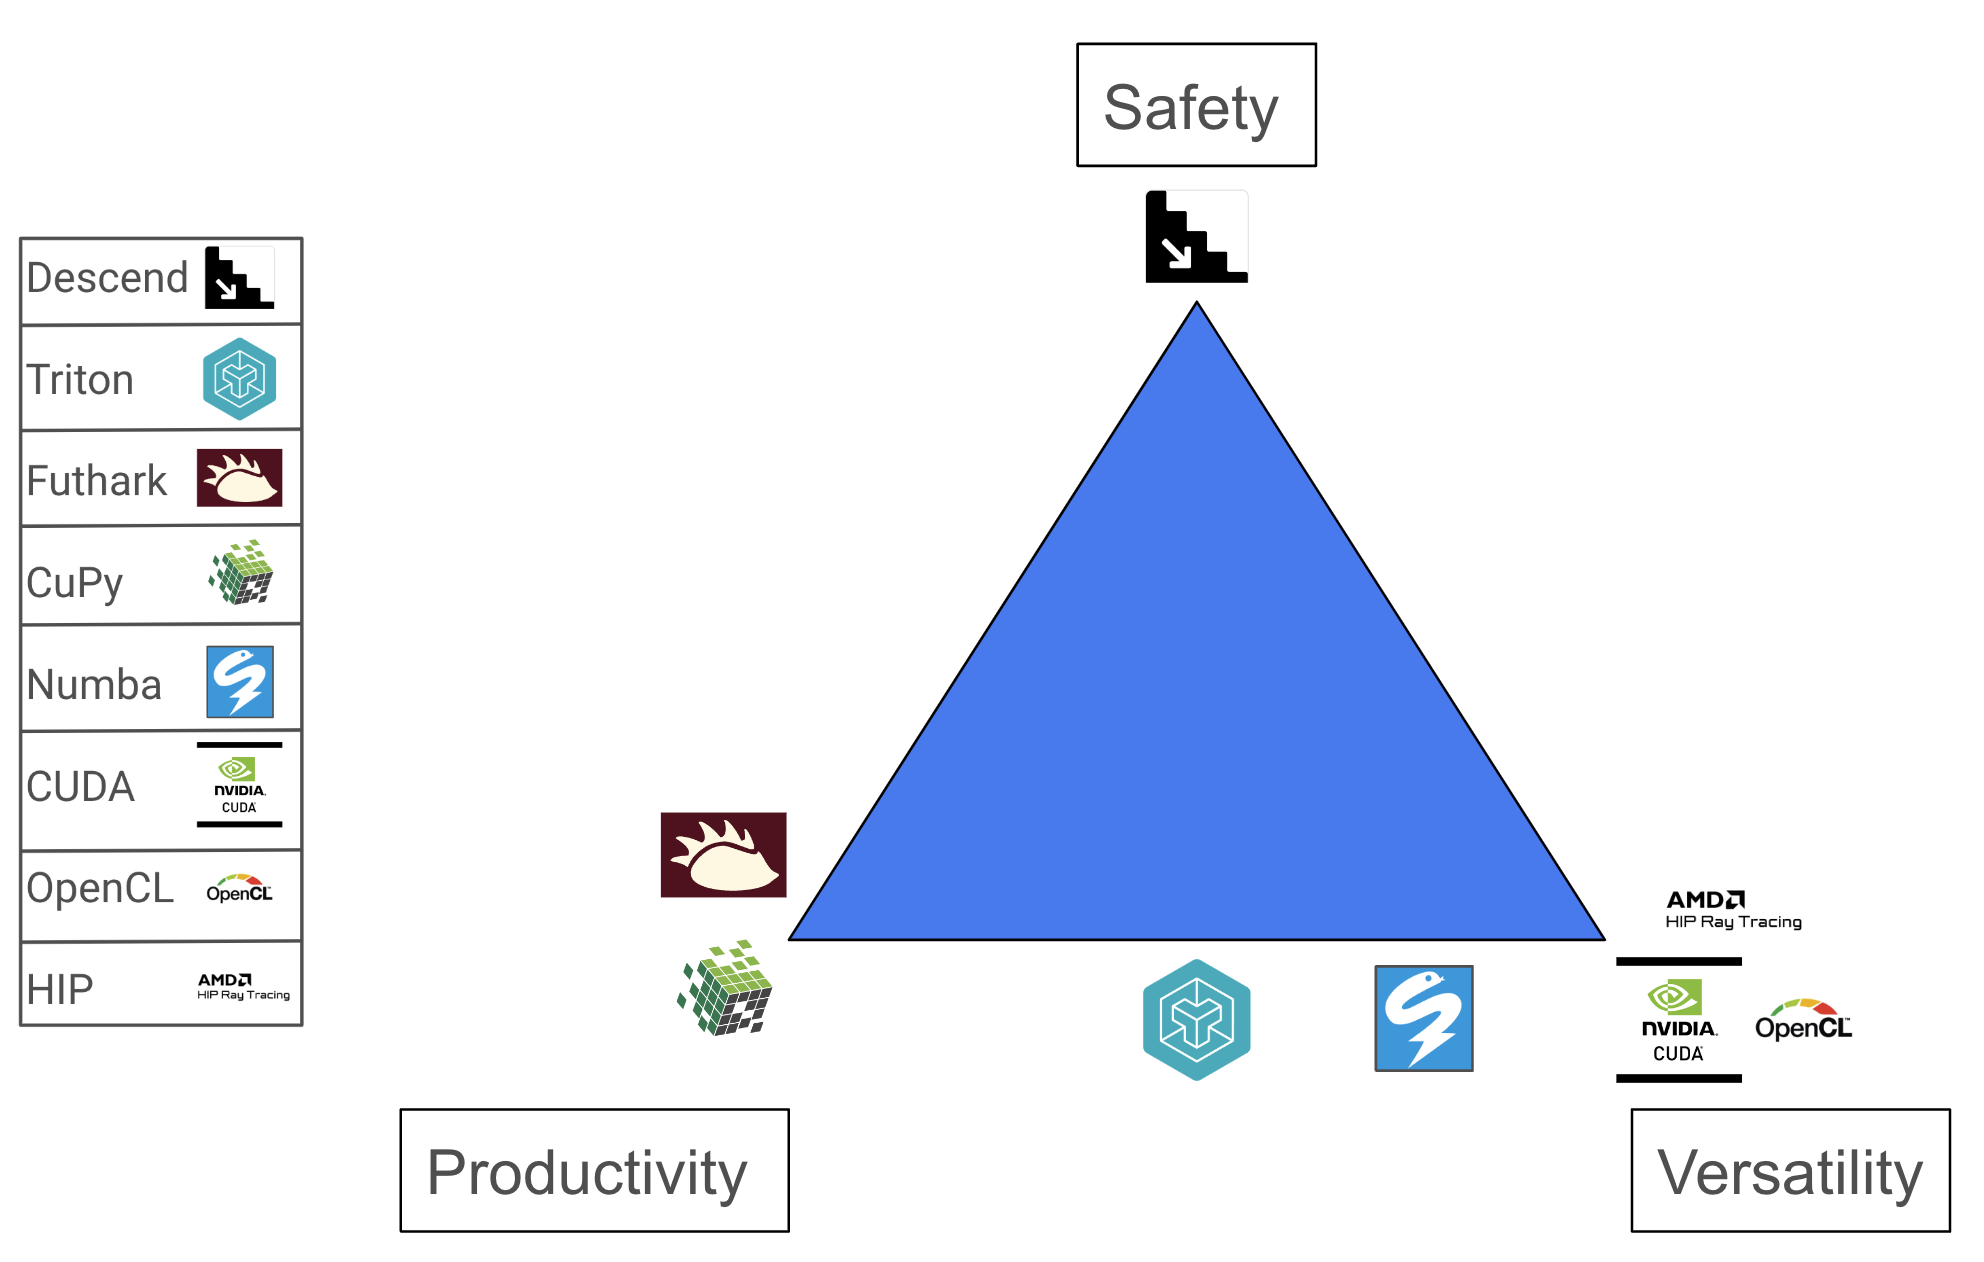
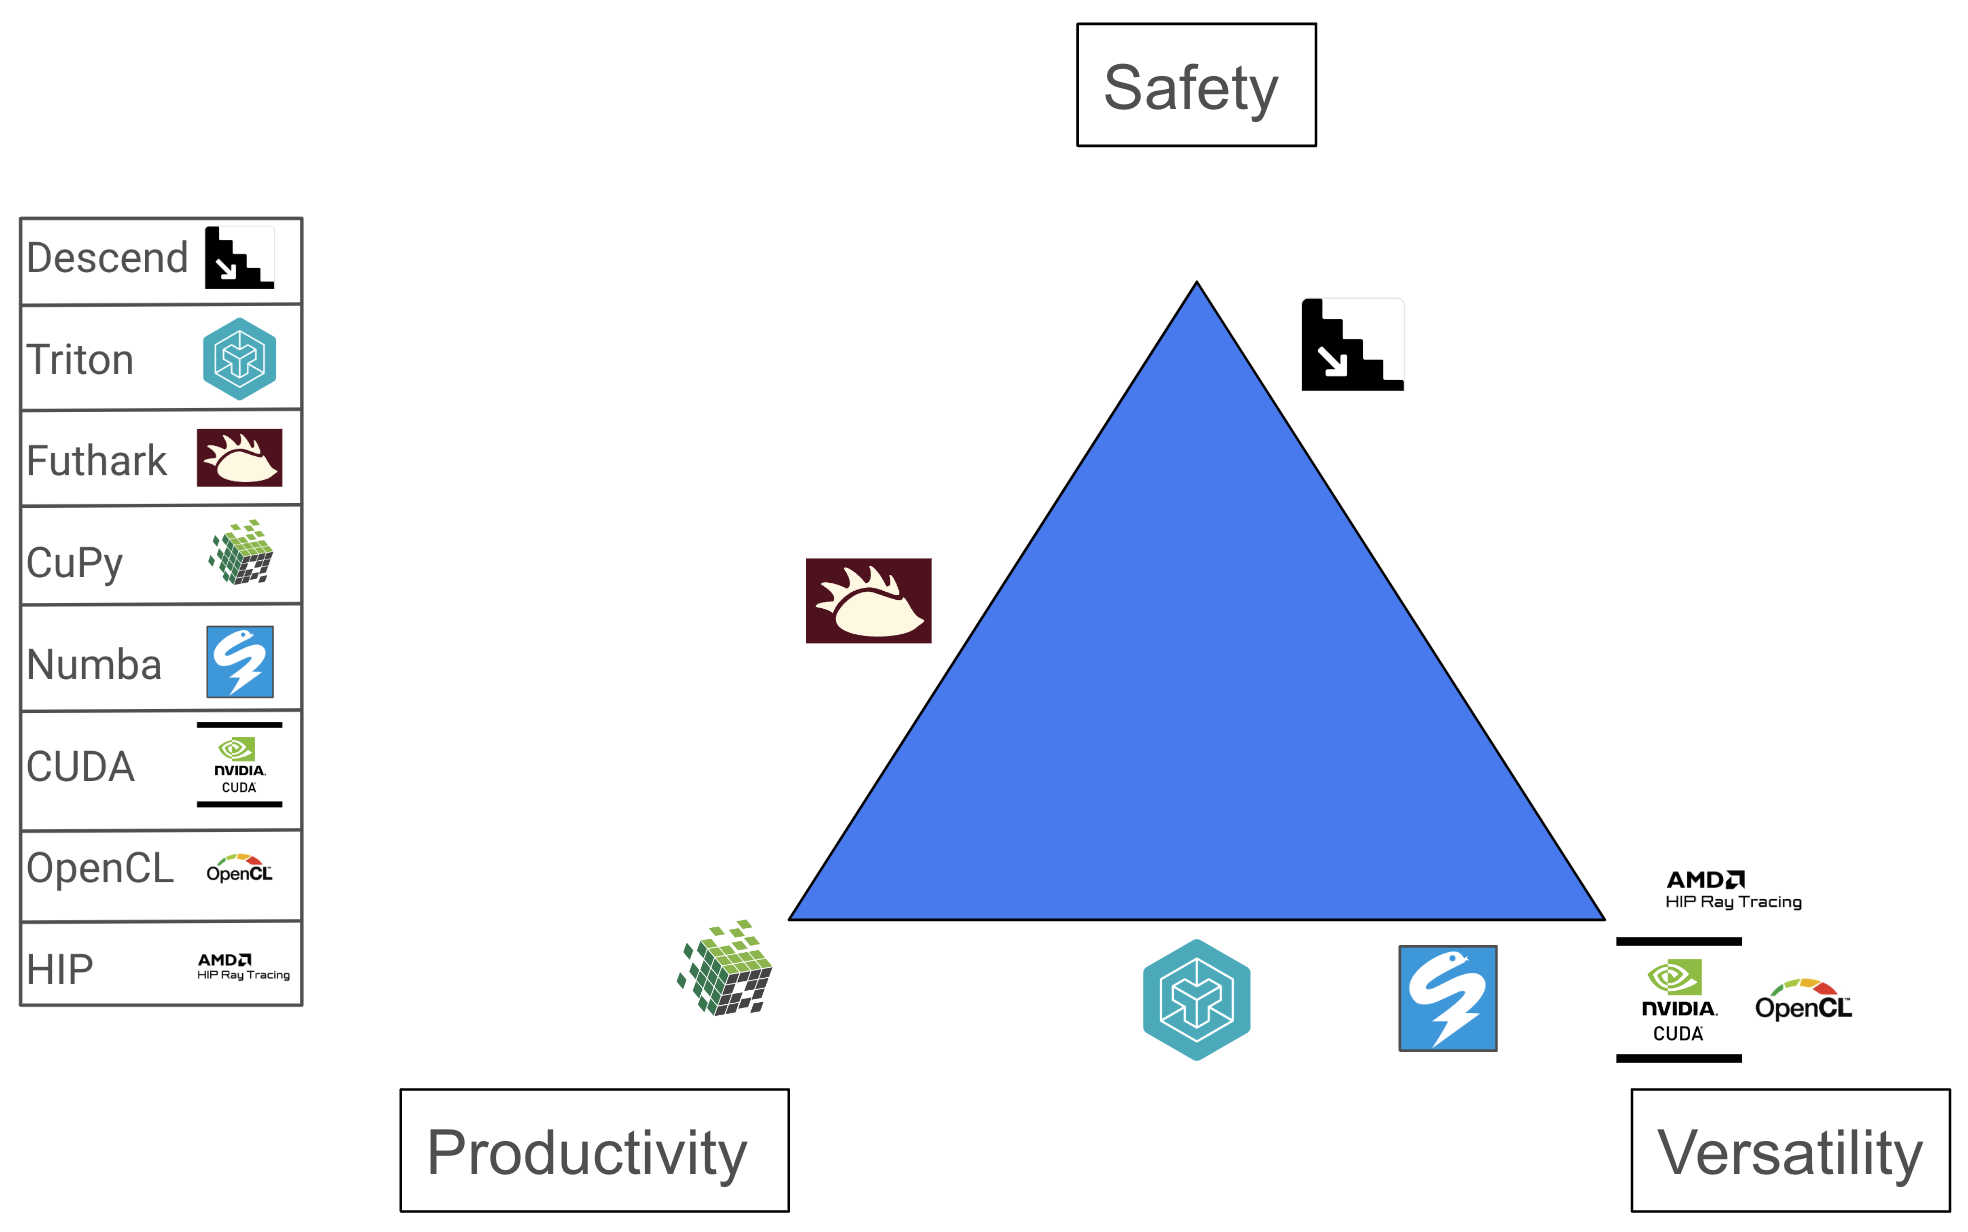
pl

diff --git a/content/post/gpu-languages.md b/content/post/gpu-languages.md
@@ -1,0 +1,185 @@
++++
+title = "The GPU Programming Language Triangle"
+date = 2024-04-11
+draft = true
+
++++
+
+Many programming languages exist today to run fast (and hopefully safe) programs on a GPU. These range from languages in the C family with directives to (mostly) functional languages that veil the low-level details of the hardware. A GPU excels at executing tasks that share a common principal: massive parallelelism. This includes scientific computing, graphics processing, and machine learning. 
+
+If the task cannot be parallelized sufficiently, then a CPU wins - it is the jack-of-all-trades of computer hardware. Many programming languages exist today to harness the potential of a CPU. Typically, these languages need to make trade-offs between three aspects: *safety*, *performance*, and *productivity*. This is depicted as a triangle, where the three aforementioned characterizations are placed at the vertices. Then, programming languages are placed somewhere along (or even in) the triangle to demonstrate what influenced their design.
+
+![cpu-triangle](<cpu-triangle.png>)
+
+We define *safety* as a measurement of how correct the program is, for some definiton of correct. This definition could be "memory accesses are always legal" or "this program is formally proven to be correct under some set of axioms." We use *performance* to quantify the amount of work accomplished by the program. Typically, as a language provides more and more abstractions to simplify the complexity of a CPU, it will emit less performant code. Contrary to what one might think, performance might not always be a primary concern. Running a program in 0.1 seconds versus 0.01 seconds is a magnitude of order difference, and yet likely unheeded to a student who wants to visualize some data plot. Lastly, *productivity* is a function of the additional cognitive exertion required to reason about a program and it's objective(s). Even putting aside the grandiose debate on syntax, this is likely the most subjective. For example, a CPU performance engineer might claim C as the most productive language because it can easily be mapped to the compiled machine code. On the other hand, a Machine Learning (ML) scientist would avow Python is their tool of choice given the number of high level ML frameworks - a model can be written in 10 lines of code instead of 10,000! There is no ubiquity in the definition of *productivity*, and that's OK, so long as we characterize it before arguing one language is more productive than another.
+
+This post isn't about CPU programming languages, however. Instead, we'll focus on programming languages that can, by means of compilation or interpretation, run on a GPU. Many such languages exist today. For example, CuPy is a GPU-powered version of Numpy, which allows users to ignore benign terms like "block size" and "thread index". The CUDA C language (REF) is a performance engineer's best friend (for NVIDIA GPUs, at least); it has perilous control over instruction selection for compute-bound kernels and the memory hierarchy for memory-bound kernels. In between these exist a range of languages, that attempt to provide some equilibrium between *safety*, *performance*, and *productivity*.
+
+## The △ of GPU Programming Languages
+
+GPUs are specialists - they perform well for embarrassingly parallel problems. The definition of *safety* remains unchanged: our programs should produce a correct output, for some definition of correct. On the other hand, *performance* is a key component of GPU programming languages. This is exemplified by the escape hatches even high-level GPU languages provide to squeeze out more performance, e.g., CuPy, a high-level Python framework, provides an API to access low-level CUDA instructions and Futhark (REF), a purely functional array language, has additional semantics for in-place array updates. Therefore, we'll assume that all GPU languages want to produce performant code, and, if it cannot, it is not useful. We'll instead define our second vertex as *versatility*, a metric of how much control a user has over the GPU. Intuitively, writing directly in PTX would provide the most versatility. A more versatile language can do everything a less versatile language can do, at the cost of verbosity and complexity. Moreover, a more versatile language will always be able to write at least as performant programs as less versatile languages. Lastly, we define *productivity* as a function of the cognitive exertion required to reason about the GPU programming model. Mental capacity is finite; ideally one could focus solely on the algorithm and not have to think about the innards of a GPU.
+
+We've now defined the three vertices of a GPU programming language triangle. We have a selection of languages spanning both industry and research, which are specific to GPU hardware: Descend, Triton, Futhark, CuPy, Numba, CUDA, OpenCL, and HIP. Consider the new triangle below:
+
+![gpu-triangle](<gpu-triangle.png>)
+
+These placements assume someone is trying to write efficient GPU kernels, and we acknowledge they are entirely subjective. We'll spend the rest of this post providing examples of different languages, and finish with a slightly deeper dive into the Triton language.
+
+## A Few Examples
+
+In an attempt to justify the language placements above, we provide a few examples of matrix multiplication `C = A @ B`, the defacto standard for high performance computing. Consider the code sample below, written in Futhark:
+
+```haskell
+-- (Written in Futhark v0.25.15)
+def matmul [i][k][j] (A: [i][k]i32) (B: [k][j]i32) : [i][j]i32 =
+  map (\Ai ->
+    map (\Bj ->
+      reduce (+) 0 (map \(x, y) -> x * y (zip Ai Bj)))
+        (transpose B)
+  ) 
+    A
+```
+
+This programming language does not allude to threads, blocks, or memory - instead, the user relies entirely upon the compiler to ensure the code is efficient. 
+
+Conversely, Descend is a "safe-by-construction" imperative language. Inspired by Rust, Descend guarantees legal CPU and GPU memory management at compile time by tracking *ownership* and *lifetimes*. Following the previous example, we write matrix multiply in Descend:
+
+```rust
+// (Descend does not have releases; written on 12 April 2024.)
+fn matmul<BLOCK: nat, i: nat, j: nat, k: nat, r: prv>(
+    A: &r shrd gpu.global [i32; i*k],
+    B: &r shrd gpu.global [i32; k*j],
+    C: &r uniq gpu.global [i32; i*j]
+) -[grid: gpu.grid<XY<j/BLOCK, i/BLOCK>, XY<BLOCK, BLOCK>>] -> () {
+    sched(Y) block_row in grid {
+        sched(X) block in block_row {
+            sched(Y) thread_row in block {
+                sched(X) thread in thread_row {
+                    let Ai = &shrd (*A)
+                        .to_view
+                        .grp::<k>
+                        .grp::<BLOCK>[[block_row]][[thread_row]];
+                    let Bj = &shrd (*B)
+                        .to_view
+                        .grp::<j>
+                        .transp
+                        .grp::<BLOCK>[[block]][[thread]];
+                    let mut Cij = &uniq (*C)
+                        .to_view
+                        .grp::<j>
+                        .grp::<BLOCK>[[block_row]]
+                        .transp
+                        .grp::<BLOCK>[[block]]
+                        .transp[[thread_row]][[thread]];
+                    
+                    let mut sum = 0;
+                    for e in 0..k { 
+                      sum = sum + (*Ai)[e] * (*Bj)[e] 
+                    };
+                    *Cij = sum
+                }
+            }
+        }
+    }
+}
+```
+
+
+Lastly, we write matrix multiplication in CUDA, which follows the Single Instruction Multiple Thread (SIMT) programming paradigm. This low-level language can easily be mapped to the generated PTX, which shows how versatile it really is. Consider the naive square matrix multiplication below, where each dimension has size `n`:
+
+```cpp
+__global__ void matmul(const int *A, const int *B, int *C, int n) {
+  int Ai = blockIdx.y * blockDim.y + threadIdx.y;
+  int Bj = blockIdx.x * blockDim.x + threadIdx.x;
+
+  int temporary = 0;
+  for (int k = 0; k < n; k++) {
+    temporary += A[Ai * n + k] * B[Bj + n * k];
+  }
+  C[Ai * n + Bj] = temporary;
+}
+```
+
+In the example above, each thread loads one row of A and one column of B from global memory, performs an inner product, and stores the result to C. This naive implementation is memory-bound, i.e., no matter how fast the additions and multiplies occur, we will always be waiting on data movement. We can mitigate the overhead of global memory by using a lower-latency memory: shared memory. Note that this will require significant changes to the structure of our code: we need to rewrite loop bounds, update indices, synchronize threads, etc. This is demonstrated in the example below:
+
+```cpp
+__global__ void matmul(const int *A, const int *B, int *C, int n) {
+  int Ai = blockIdx.y * blockDim.y + threadIdx.y;
+  int Bj = blockIdx.x * blockDim.x + threadIdx.x;
+
+  __shared__ int shA[n];
+  __shared__ int shB[n];
+
+  int temporary = 0;
+  for (int i = 0; i < n; i += blockDim.x) {
+    shA[threadIdx.y * blockDim.x + threadIdx.x] = A[Ai * n + i + threadIdx.x    ];
+    shB[threadIdx.y * blockDim.x + threadIdx.x] = B[Bj + n * i + threadIdx.y * n];
+
+    __syncthreads(); // Wait until all threads finish loading to shared memory.
+    for (int j = 0; j < blockDim.x; j++) {
+      temporary +=
+        shA[threadIdx.y * blockDim.x + j] * shB[j * blockDim.x + threadIdx.x];
+    }
+    __syncthreads(); // Wait until all threads finish reading from shared memory.
+  }
+  C[Ai * n + Bj] = temporary;
+}
+```
+
+This is just one of many optimizations to get a performant matrix multiplication kernel. We aren't even considering multiple-level tiling, using Tensor Cores, etc. In some utopian setting, we wouldn't *need* to, the compiler would do this automatically for us; in comes Triton.
+
+## What is Triton?
+Triton is an imperative language and compiler stack to simplify the arduous process of writing GPU kernels. Antithetical to the SIMT model, users write programs that load, compute upon, and store *blocks* of memory. These blocks are accessed via a pointer interface. Then, the compiler automatically handles optimizations such as multi-threading, using fast memory, tensor cores, etc. So, the user must handle the outermost level of tiling, via loads and stores to global memory, and then the compiler handles the rest. To begin, we'll compare a simple program `B = A + 1`, where `|A| = |B| = n`.
+
+![side-by-side](<side-by-side-kernel.png>)
+
+The Triton kernel is working on a block of threads, whose position in a grid is indicated by the `program_id`. The offsets are a block of pointers that will be used to determine where in global memory we want to load. These are masked off to ensure we don't exceed the length of the array `n`.
+
+### Who uses it?
+The Triton language and compiler stack is currently open source under OpenAI (REF). Additionally, PyTorch 2.0 (REF) translates PyTorch programs into Triton in its new compiler backend, TorchInductor. Lastly, JAX (ref) uses Triton as a GPU backend target for its new kernel programming model, Pallas (REF).
+
+### Strengths
+Writing optimal GPU programs is hard. For a memory-bound kernel, one must consider, at a minimum, the following:
+- Memory coalescing (in global memory): thread access patterns are important to ensure we minimize the number of fetches.
+- Memory hierarchy (global $\rightarrow$ shared $\rightarrow$ registers). Using a lower-latency memory is better, but requires synchronization and low-level instructions such as intra-warp shuffles.
+- Bank conflicts (in shared memory): data structure layout is important to avoid bank conflicts, e.g., Area of Structures (AoS) versus Structure of Arrays (SoA).
+
+For a compute-bound kernel such as matrix multiply or convolution, one must map instructions to Tensor Cores. This requires carefully choosing tile size, SM count, etc. Such optimizations are not always trivial; this can be illustrated by the number of NVIDIA Developer blog posts (REF).
+
+By performing block-level data flow analysis, the Triton language can *automatically* unlock optimizations such as memory coalescing, thread swizzling, pre-fetching, vectorization, instruction selection (e.g. Tensor Core), shared memory allocation and synchronization, and more.
+
+Additionally, Triton provides a few other useful features, such as JIT compilation and auto-tuning support.
+
+### Weaknesses
+This is a performance *savant*'s worst nightmare: we ultimately become victim to a "black box" compiler that we can only hope will optimize our kernel. Worse yet, we don't really have a way out. In other words, there exist optimizations that aren't clearly accessible from the high-level abstraction of Triton. So, while Triton may be the right choice for quick iteration, it isn't necessarily the best choice to squeeze out every drop of performance, i.e., it makes an important trade-off between productivity and versatility.
+
+There is an interesting (yet slightly outdated (FOOTNOTE)) blog post by a senior engineer at NVIDIA (REF), who inspects the emitted code from the Triton compiler, and reverse engineers the PTX back to CUDA (with the assistance of LLMs, no less).
+
+FOOTNOTE: Add footnote saying that readers should be aware this is from Triton 1.0. I have run a few of these on Triton 2.1.0, and found they have improved since, e.g., there is no longer unnecessary thread synchronizations in the reduction kernel.
+
+For a deeper dive into Triton, I recommend the tutorial (REF).
+
+## Takeaways
+
+- Making trade-offs between productivity, versatility, and safety - know who your intended audience is (what your north star is).
+- GPU languages should always write performant code.
+- There remains room for exploration.
+
+
+Demystifying OpenAI Triton: https://fkong.tech/posts/2023-04-23-triton-cuda/
+
+Ask: Brennan Shacklett, Rohan, Nathan for feedback.
+
+Blocked algorithms: https://dl.acm.org/doi/pdf/10.1145/106973.106981
+
+PyTorch 2: https://pytorch.org/assets/pytorch2-2.pdf
+
+Using shared memory in CUDA: https://developer.nvidia.com/blog/using-shared-memory-cuda-cc/
+
+Transpose using shared memory: https://developer.nvidia.com/blog/efficient-matrix-transpose-cuda-cc/
+
+CUDA warp-level primitives: https://developer.nvidia.com/blog/using-cuda-warp-level-primitives/
+
+Using atomics for fast histogram kernel: https://developer.nvidia.com/blog/gpu-pro-tip-fast-histograms-using-shared-atomics-maxwell/
+
+Programming Tensor Cores: https://developer.nvidia.com/blog/programming-tensor-cores-cuda-9/
